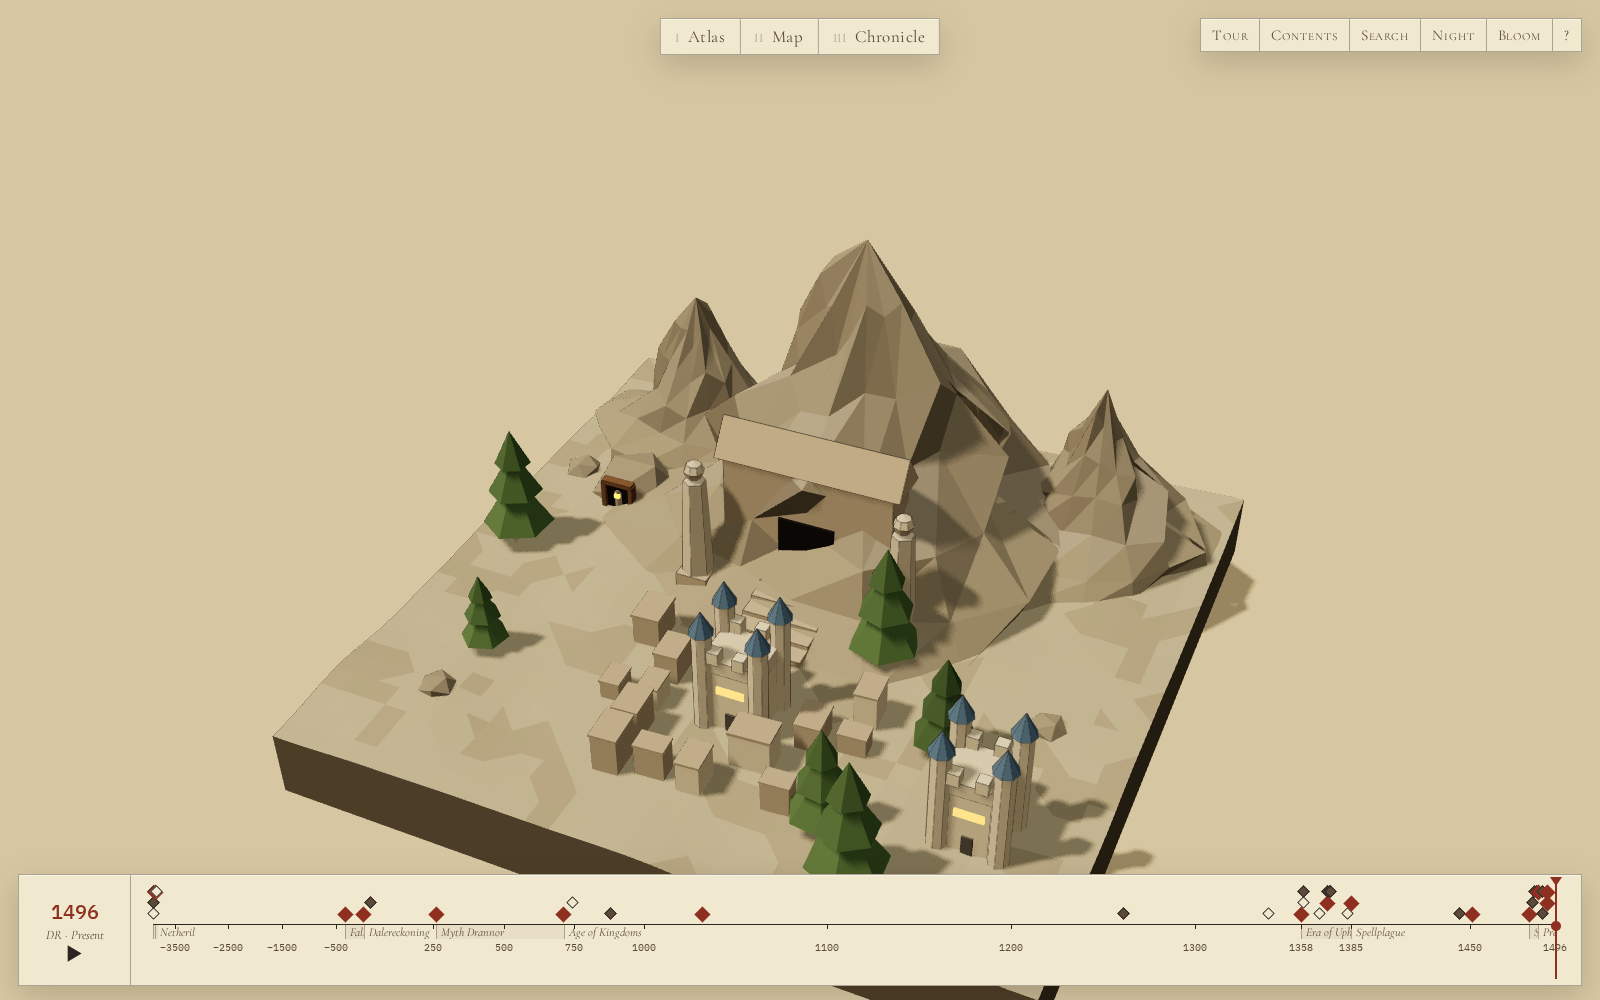
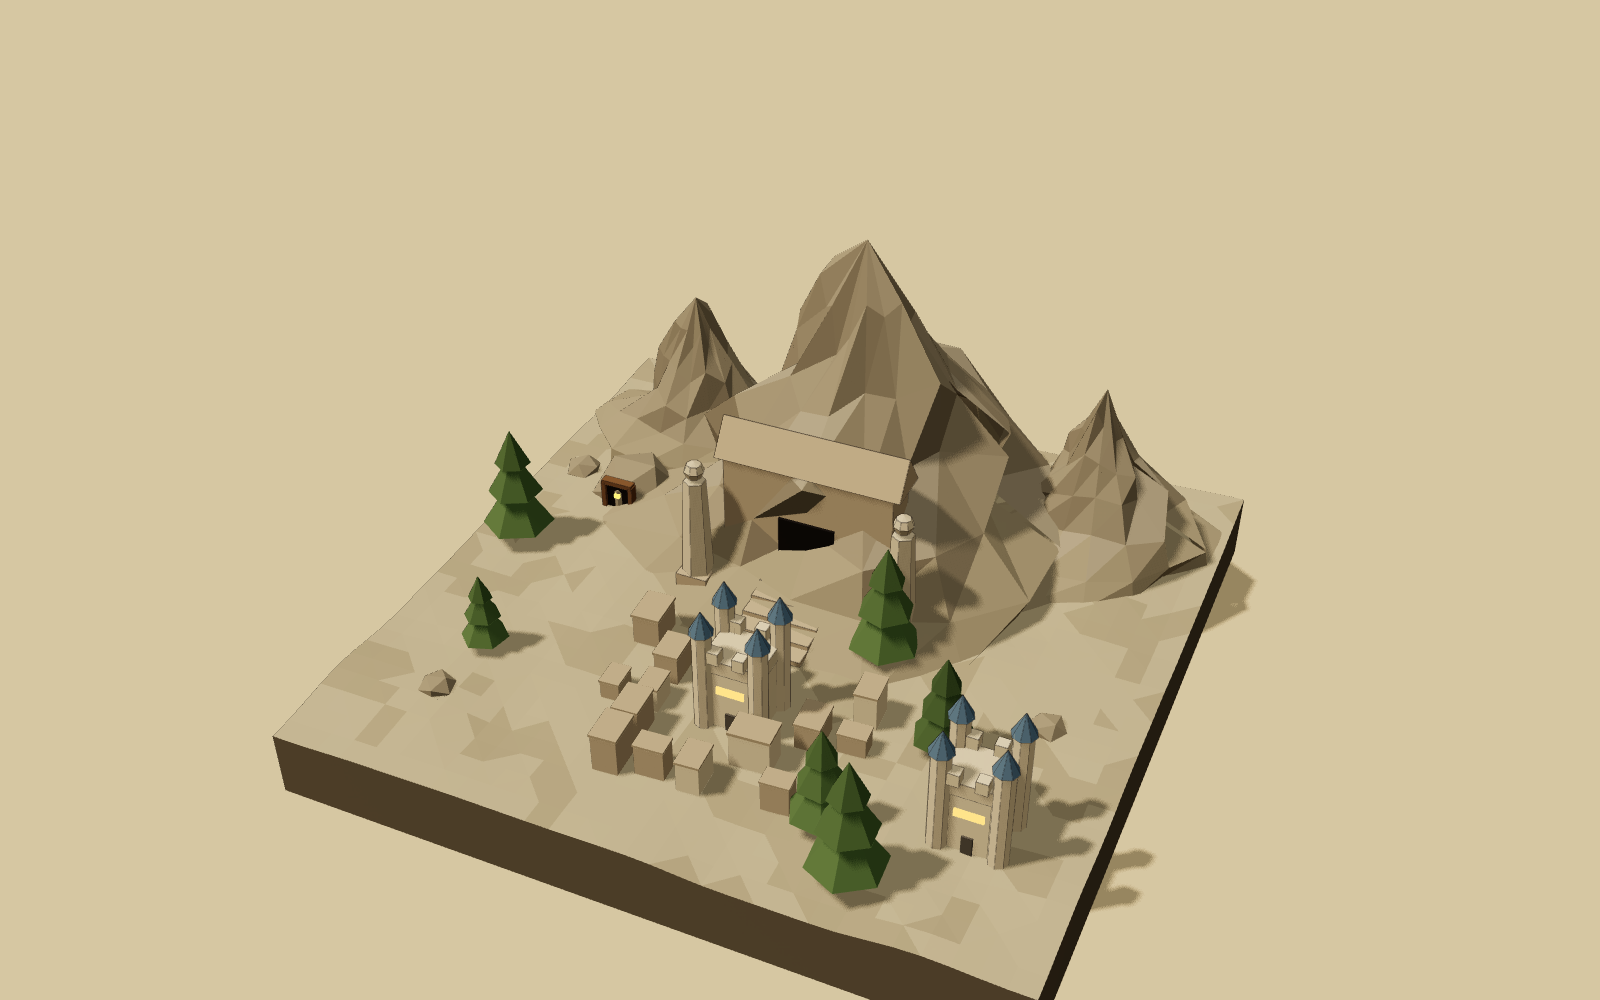
Worlds polish: atlas bands for other worlds, switch guard, tale card over the panel, solo hides all chrome, larger dioramas on small charts; README for worlds and narration; screenshots

Changed region(s): [[0.0, 0.868, 1.0, 0.992], [0.75, 0.0, 1.0, 0.062], [0.4062, 0.0, 0.5938, 0.062]]

diff --git a/src/board.js b/src/board.js
@@ -242,7 +242,7 @@ export function drawParchment(map, places, { width = 3000, title = 'Faerûn' } =
   g.translate(W - 110, H * 0.79);
   g.textAlign = 'right';
   g.fillStyle = INK;
-  g.font = '600 92px "Cormorant Garamond", Georgia, serif';
+  g.font = `600 ${W >= 3000 ? 92 : 70}px "Cormorant Garamond", Georgia, serif`;
   g.fillText(spaced(title.toUpperCase()), 0, 0);
   g.font = 'italic 500 40px "Cormorant Garamond", Georgia, serif';
   g.fillText('a schematic chart, not to scale', -6, 54);
@@ -500,7 +500,8 @@ export function makeWheelBoard(L) {
   const ci = (L.R2 * 0.98) * k, box = 13 * k;
   g.strokeRect(c + ci - box, c - ci - box, box * 2, box * 2);
   g.setLineDash([]); g.font = 'italic 600 38px "Cormorant Garamond", Georgia, serif'; g.fillStyle = 'rgba(58,44,32,0.85)'; g.textAlign = 'center';
-  g.fillText('beyond the Wheel: the Inner Planes', c + ci, c - ci - box - 18);
+  g.fillText('beyond the Wheel:', c + ci, c - ci + box + 44);
+  g.fillText('the Inner Planes', c + ci, c - ci + box + 84);
   g.restore();
   compass(g, 230, 230, 120, INK);
   const tex = new THREE.CanvasTexture(cv);

diff --git a/src/main.js b/src/main.js
@@ -530,6 +530,7 @@ function tourGo() {
     tour.timer = setTimeout(next, Math.max(9000, st.text.length * 30));
     return;
   }
+  if (tale.story) tale.close();
   focusPlace(i, { fromTour: true, dur: 2.4 });
   const dwell = Math.max(7000, (p.description || '').length * 42);
   tour.timer = setTimeout(next, dwell);
@@ -550,6 +551,9 @@ async function switchWorld(w, { layout } = {}) {
   if (SOLO || !WORLD_BY_ID[w] || state.switching) return;
   if (w === world && !layout) return;
   state.switching = true;
+  try { await swapWorld(w, layout); } finally { state.switching = false; }
+}
+async function swapWorld(w, layout) {
   stopTour();
   stopPlay();
   const fade = !SHOT && !REDUCED;
@@ -575,7 +579,6 @@ async function switchWorld(w, { layout } = {}) {
   shadowDirty = true;
   updateURL();
   if (fade) { veil.classList.remove('on'); setTimeout(() => { veil.hidden = true; }, 420); }
-  state.switching = false;
 }
 function stepWorld(dir) {
   const k = WORLDS.findIndex((x) => x.id === world);

diff --git a/src/archetypes/common.js b/src/archetypes/common.js
@@ -141,7 +141,7 @@ export function decorate(S, done = new Set(), o = {}) {
   if (want('glow') || want('faerie-fire')) K.glowPoints(S, { n: 8 + S.scale * 2, color: want('faerie-fire') ? '#c47aff' : P.glow, spread: 3 });
   if (want('mythal')) K.mythal(S, { r: 4.2, h: 4.2 });
   if (want('giant-trees')) K.trees(S, { n: 3 + S.scale, type: 'giant' });
-  if (o.trees !== false) {
+  if (o.trees !== false && !S.has('gears')) { // clockwork planes and towns are not wooded
     const t = S.terrain;
     const type = t === 'tundra' || t === 'mountain' ? 'con' : t === 'jungle' || (t === 'coast' && S.place.region === 'east-and-south' && S.place.archetype === 'jungle-city') ? 'palm' : t === 'cavern' ? 'mushroom' : 'mixed';
     const n = o.treeCount ?? (want('trees') ? 22 : t === 'forest' ? 26 : t === 'desert' ? 2 : t === 'cavern' ? 0 : 10);

diff --git a/src/layouts/atlas.js b/src/layouts/atlas.js
@@ -9,7 +9,9 @@ const BANDS = [
 
 export function atlas(places) {
   const present = new Set(places.map((p) => p.region));
-  const extra = [...present].filter((r) => !REGION_ORDER.includes(r));
+  // regions outside the Faerûn bands (the other worlds' regions) form a band of their own, in name order
+  const inBands = new Set(BANDS.flat());
+  const extra = [...present].filter((r) => !inBands.has(r)).sort((a, b) => (REGION_ORDER.indexOf(a) + 1 || 999) - (REGION_ORDER.indexOf(b) + 1 || 999));
   const bands = BANDS.map((b) => b.filter((r) => present.has(r)));
   if (extra.length) bands.push(extra);
   const items = new Array(places.length);

diff --git a/src/worlds.js b/src/worlds.js
@@ -23,7 +23,7 @@ export function primaryLayout(w) {
   return d === 'wheel' || d === 'orbit' ? d : 'map';
 }
 /** chart size for a world's Map layout: Faerûn is the big board; the others are smaller and more crowded */
-export const mapOpts = (w) => (w === 'toril' ? { W: 300, s: 0.66 } : { W: 205, s: 0.92 });
+export const mapOpts = (w) => (w === 'toril' ? { W: 300, s: 0.66 } : { W: 215, s: 1.2 });
 
 /** stories touching a place (by placeIds) */
 const byPlace = new Map();

diff --git a/src/style.css b/src/style.css
@@ -53,7 +53,7 @@ button { font: inherit; color: inherit; }
 
 .ui { transition: opacity 0.4s, transform 0.4s; }
 body.hide-ui .ui, body.hide-ui #labels { opacity: 0; pointer-events: none; }
-body.solo .ui, body.solo #labels { display: none; }
+body.solo .ui, body.solo #labels { display: none !important; }
 
 /* --------------------------------------------------------- cartouche -- */
 #cartouche {

diff --git a/README.md b/README.md
@@ -1,7 +1,9 @@
 # Realms Atlas
 
-An explorable three.js cabinet of ninety Forgotten Realms cities, towns and landmarks, with a
-Dalereckoning (DR) time scrubber that shows Faerûn changing from the Days of Thunder to 1496 DR.
+An explorable three.js cabinet of Forgotten Realms cities, towns and landmarks — ninety in Faerûn and a
+hundred more across seven other boards (Ten-Towns, the Planes, Realmspace, Kara-Tur, Zakhara, Maztica,
+Laerakond) — with a Dalereckoning (DR) time scrubber that shows them changing from the Days of Thunder to
+1496 DR, and sixteen tales read aloud at the moments that changed them.
 
 Every place is a small procedural **diorama** built in code from one shared low-poly kit — walls, towers,
 spires, domes, minarets, keeps, house clusters, trees, mountains, caverns, ships, bridges, ruins, glows —
@@ -10,6 +12,11 @@ and each one changes with the year: it rises from the board when founded, crumbl
 destroyed, fades when abandoned, turns ghostly when hidden, and lifts away when relocated.
 
 ![Atlas](docs/shots/board-atlas.png)
+
+| | |
+|---|---|
+| ![The Planes](docs/shots/board-planes.png) | ![Realmspace](docs/shots/board-realmspace.png) |
+| ![Sigil](docs/shots/solo-ps-sigil.png) | ![A tale](docs/shots/tale-card.png) |
 
 ```sh
 npm install
@@ -37,47 +44,102 @@ Node 22+. `npx playwright install chromium` once before `npm run shots`.
 - **Tour**, **Contents**, **Search**, **Night** (lantern-lit blue), optional **Bloom** for glowing things,
   deep links, tooltips.
 
+## Worlds
+
+The switcher under the layout tabs swaps the whole board (a short fade, then the camera re-frames). Only the
+active world's dioramas are in the scene; a world is built on first visit and kept.
+
+| world | board | its own layout (key `2`) |
+|---|---|---|
+| **Faerûn** | the parchment chart of `data/map.json` | Map |
+| **Ten-Towns** | a chart of Icewind Dale (`data/maps/ten-towns.json`) — a drill-in from Bryn Shander | Map |
+| **The Planes** | the Outlands: concentric ink rings and spokes; Sigil, a ring city, hangs on the Spire's needle at the centre; the sixteen gate-towns on the inner ring at their `ring.order`, each Outer Plane on the outer ring at the same angle; the City of Brass off the Wheel in a corner | **Wheel** |
+| **Realmspace** | an orrery: the sun at the centre, each body on a faint ink circle at `orbit.radius`, satellites (`satelliteOf`) set along their primary's orbit, a star-pricked deep-blue plate with the crystal shell as its rim; the bodies drift slowly round | **Orbit** |
+| **Kara-Tur**, **Zakhara**, **Maztica**, **Laerakond** | their own parchment charts (`data/maps/<world>.json`) | Map |
+
+Atlas and Chronicle work in every world (the Chronicle is per world: the scrubber is global, and every place in
+every world resolves its state at the current year). A place with `drill` shows **⤓ Enter Ten-Towns** in its
+panel and tooltip (double-click or `Enter` also goes in); Realmspace's Toril drills back to Faerûn. Search and
+Contents span all worlds; picking a place in another world switches to it. `#ps-sigil` implies its world.
+
+New looks are chosen by motif as much as by archetype: `ring-city` (Sigil's torus with its blades and doors),
+`sphere` / `gas-giant` / `rings` (faceted worlds on brass orrery stands; the sun glows, the crystal shell is a
+curved crystal wall with a portal), `asteroid` / `station` (and anything else in Realmspace, or a floating
+plane) become a round rock adrift carrying the archetype's town, `gears` (interlocking, turning), `chasm` (a rift
+with a fire-glow), `ice` (floes on water, a glacier on land).
+
+## Narration
+
+`data/stories.json` holds sixteen tales (120–180 words each, told by an Avowed of Candlekeep) tied to the
+events that shaped the Realms. An open-book glyph marks each tale on the scrubber and on the labels of the
+places it touches; the panel lists a place's tales. A **Tale** card shows the title, year and text (drop cap)
+with **Hear the tale** and a progress bar. Playing a tale jumps the year, flies to its first place (switching
+world if need be) and pulses the others.
+
+Audio is the pre-rendered clip `public/narration/<id>.mp3` (regenerate with `scripts/tts.py`) through an
+`<audio>` element; when a tale has no clip, or it fails to load, the browser's `speechSynthesis` reads the text
+(an en-GB voice if one is installed). Nothing is spoken before the first click or key press on the page.
+The **Narration** toggle in the top bar (remembered in `localStorage`) decides whether the **Tour** stops at a
+place's tale, sets the year and reads it before moving on. `prefers-reduced-motion` turns camera flights,
+layout animation and the orrery's drift into cuts.
+
 ## Controls
 
 | key | |
 |---|---|
 | `←` `→` | previous / next place (in the current layout's order) |
-| `1` `2` `3` | Atlas · Map · Chronicle |
+| `1` `2` `3` | Atlas · Map (Wheel in the Planes, Orbit in Realmspace) · Chronicle |
+| `W` / `⇧W` | next / previous world |
+| `Enter` | enter the world a focused place opens onto (Bryn Shander → Ten-Towns) |
+| `S` | the tales |
+| `P` | play / pause the open tale |
+| `R` | narration on / off |
 | `Space` | play / pause time |
 | `[` `]` | previous / next world event |
-| `T` | tour |
+| `T` | tour (tells the tales on the way when narration is on) |
 | `C` | contents |
 | `/` | search |
 | `N` | night |
 | `B` | bloom |
 | `H` | hide the interface |
-| `Esc` | back to the board |
+| `Esc` | close the tale / back to the board |
 | `?` | keys |
 
-Mouse: drag to orbit, right-drag to pan, wheel to zoom, click a diorama to visit it.
+Mouse: drag to orbit, right-drag to pan, wheel to zoom, click a diorama to visit it, double-click a place with
+a ⤓ to enter its world.
 
-Deep links: `#waterdeep` opens a place, `?year=1358` sets the year, `?layout=map|atlas|chronicle`,
-`?night=1`, `?solo=menzoberranzan` shows one diorama alone (add `&view=side|top`), `?ui=0` hides the interface.
+Deep links: `#waterdeep` opens a place (in its own world: `#ps-sigil` opens the Planes), `?world=realmspace`
+opens a world, `?year=1358` sets the year, `?layout=map|wheel|orbit|atlas|chronicle`, `?night=1`,
+`?tale=karsus-folly` opens a tale, `?solo=menzoberranzan` shows one diorama alone (add `&view=side|top`),
+`?ui=0` hides the interface.
 
 ## How it is built
 
 ```
-data/places/*.json  data/timeline.json  data/map.json     source data (one file per region)
-scripts/schema.mjs        validators for places, timeline
-scripts/build-data.mjs    validate + merge → src/generated/{places,timeline,map}.json
-                          (bad records are skipped and listed in docs/DATA-ERRORS.md; data is never edited)
-scripts/stub-data.mjs     placeholder records for every roster id (npm run data -- --stub)
+data/places/*.json  data/timeline.json  data/map.json     source data (one file per Faerûn region,
+data/worlds.json  data/maps/<world>.json                   one per other world: data/places/<world>.json)
+data/stories.json  public/narration/*.mp3                  tales and their clips
+scripts/schema.mjs        validators for places (world, drill, ring, orbit, satelliteOf), timeline, stories
+scripts/build-data.mjs    validate + merge every world → src/generated/{places,timeline,maps,stories}.json
+                          (bad records are skipped and listed in docs/DATA-ERRORS.md; data is never edited;
+                          other worlds are lenient: an unknown type/archetype/terrain is a warning + fallback)
+scripts/check-states.mjs  every place of every world at probe years vs. an independent reading of its status
+scripts/stub-data.mjs     placeholder records (npm run data -- --stub; --world planes stubs one missing world)
+scripts/tts.py            regenerate the narration clips from data/stories.json
 scripts/screenshot.mjs    Playwright screenshots
 src/kit/                  the shared architecture kit: Builder (merges geometry per layer × material),
                           instancing prototypes, materials with per-diorama status uniforms, palette, Site
                           (terrain height function + occupancy grid), pieces.js (every architectural piece)
-src/archetypes/           one generator per archetype (23), composing kit pieces from visual.motifs/terrain/scale
+src/kit/cosmos.js         phase-2 pieces: gears, chasms, ice, faceted spheres, rings, floating rock tiles, orreries
+src/archetypes/           one generator per archetype (23 + ring-city, celestial-body), composing kit pieces
+                          from visual.motifs/terrain/scale; index.js picks motif-driven looks and adrift tiles
 src/diorama.js            the status machinery: setYear() → tweened rise / collapse / scorch / fade / ghost / lift
-src/layouts/              atlas, map, chronicle (+ wheel.js, reserved for a Planescape layout)
-src/board.js              floor, frames, the parchment map (the only texture in the app)
+src/layouts/              atlas, map, chronicle, wheel (the Planes), orbit (Realmspace)
+src/board.js              floor, frames, and each world's board: parchment chart, Outlands wheel, orrery plate
+src/worlds.js             worlds, which places and tales belong where, each world's own layout
 src/time.js               the DR axis, eras, status lookup
-src/ui/                   scrubber, panel, overlays, labels
-src/main.js               renderer, camera, layouts, tour, keys, URL state
+src/ui/                   scrubber, panel, overlays, labels, tale.js (Tale card, narrator, stories index)
+src/main.js               renderer, camera, worlds, layouts, tour, narration, keys, URL state
 ```
 
 Each diorama is a handful of draw calls: geometry is merged per *layer* (base, land, low, tall, ruin, glow,
@@ -89,15 +151,20 @@ a place is ruined; a pre-built `ruin` layer of stumps and rubble rises), and by 
 
 ## Adding a place
 
-1. Add a record to the right `data/places/<region>.json` (see the schema in `docs/SPEC.md`): id, name, region,
+1. Add a record to the right `data/places/<region>.json` (or `data/places/<world>.json`; see `docs/SPEC.md` and
+   `docs/SPEC-2.md`): id, name, region,
    type, `archetype` (one of the 23), `founded`, a `status` timeline, 3–6 `events`, an original `description`,
    `visual` (`palette`, `scale` 1–5, `motifs`, `terrain`, `notes`) and `sources`.
-2. Add its coordinates to `places` in `data/map.json` (see `docs/MAP.md`).
+2. Add its coordinates to `places` in `data/map.json` or `data/maps/<world>.json` (see `docs/MAP.md`); the Planes
+   use `ring: {order, plane}` and Realmspace `orbit: {index, radius}` instead.
 3. Optionally add it to `scripts/roster.mjs` so missing-record checks know about it.
 4. `npm run data` — fix anything it reports — then `npm run dev` and open `#your-id` or `?solo=your-id`.
 
 A new look is a new file in `src/archetypes/` registered in `src/archetypes/index.js`; most looks only need
 motifs, which `decorate()` in `src/archetypes/common.js` already understands.
+
+A new tale is a record in `data/stories.json` (id, title, year, worldId, placeIds, eventTitle, narrator, text,
+`audio: "narration/<id>.mp3"` or null, durationSec); without a clip the browser reads it.
 
 ## Deploying
 
@@ -111,8 +178,9 @@ motifs, which `decorate()` in `src/archetypes/common.js` already understands.
 ## Attribution
 
 - Facts are drawn from the **Forgotten Realms Wiki** (https://forgottenrealms.fandom.com), licensed
-  **CC BY-SA 3.0**; each place lists the pages it was drawn from. All descriptions are original paraphrase.
-  No official maps or artwork are used; the chart of Faerûn is our own schematic drawing.
+  **CC BY-SA 3.0**; each place lists the pages it was drawn from. All descriptions and tales are original
+  prose. No official maps or artwork are used; every chart, the Wheel and the orrery are our own schematic
+  drawings.
 - *Forgotten Realms*, *Dungeons & Dragons* and related names are trademarks of Wizards of the Coast. This is an
   unofficial fan project, not affiliated with or endorsed by Wizards of the Coast.
 - Inspired by Piotr Migdał's **Invisible Cities** atlas

diff --git a/docs/DATA-ERRORS.md b/docs/DATA-ERRORS.md
@@ -1,6 +1,6 @@
 # Data errors
 
-Generated by `npm run data` at 2026-10-08T14:39:20.792Z. Data files are never edited by the build;
+Generated by `npm run data` at 2026-10-08T15:25:38.036Z. Data files are never edited by the build;
 rejected records are skipped and the app is built from the valid ones.
 
 ## File errors (0)
@@ -19,6 +19,10 @@ None.
 
 None.
 
+## Story errors (0)
+
+None.
+
 ## Map (0)
 
 None.
@@ -27,6 +31,23 @@ None.
 
 None.
 
-## Warnings (records accepted) (0)
+## Warnings (records accepted) (18)
 
-None.
+- data/places/planes.json[2] (ps-excelsior): no events
+- data/places/planes.json[4] (ps-ecstasy): no events
+- data/places/planes.json[5] (ps-faunel): no events
+- data/places/planes.json[6] (ps-sylvania): no events
+- data/places/planes.json[8] (ps-xaos): no events
+- data/places/planes.json[9] (ps-bedlam): no events
+- data/places/planes.json[10] (ps-plague-mort): no events
+- data/places/planes.json[11] (ps-curst): no events
+- data/places/planes.json[12] (ps-hopeless): no events
+- data/places/planes.json[14] (ps-ribcage): no events
+- data/places/planes.json[15] (ps-rigus): no events
+- data/places/planes.json[16] (ps-automata): no events
+- data/places/planes.json[17] (ps-fortitude): no events
+- data/places/planes.json[25] (ps-pandemonium): no events
+- data/places/planes.json[27] (ps-carceri): no events
+- data/places/planes.json[28] (ps-gray-waste): no events
+- data/places/planes.json[29] (ps-gehenna): no events
+- data/places/planes.json[32] (ps-mechanus): no events
